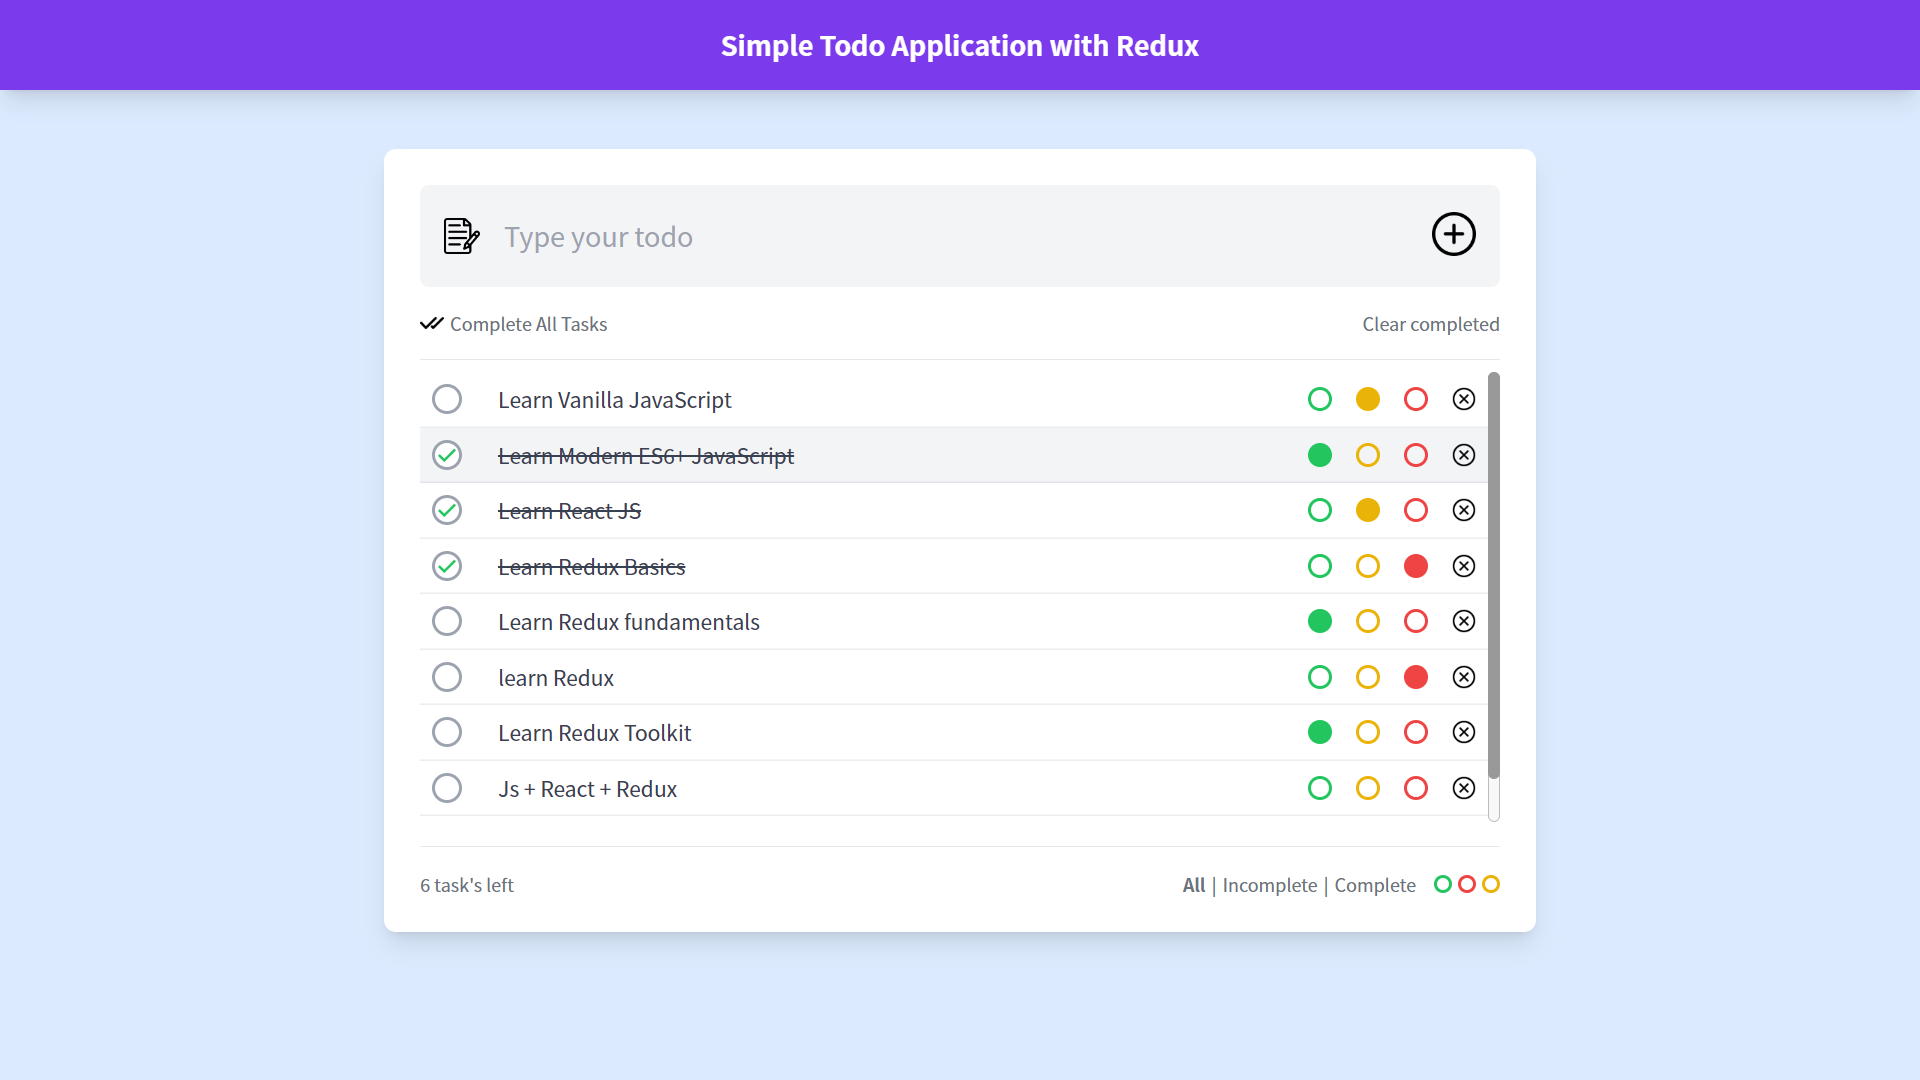
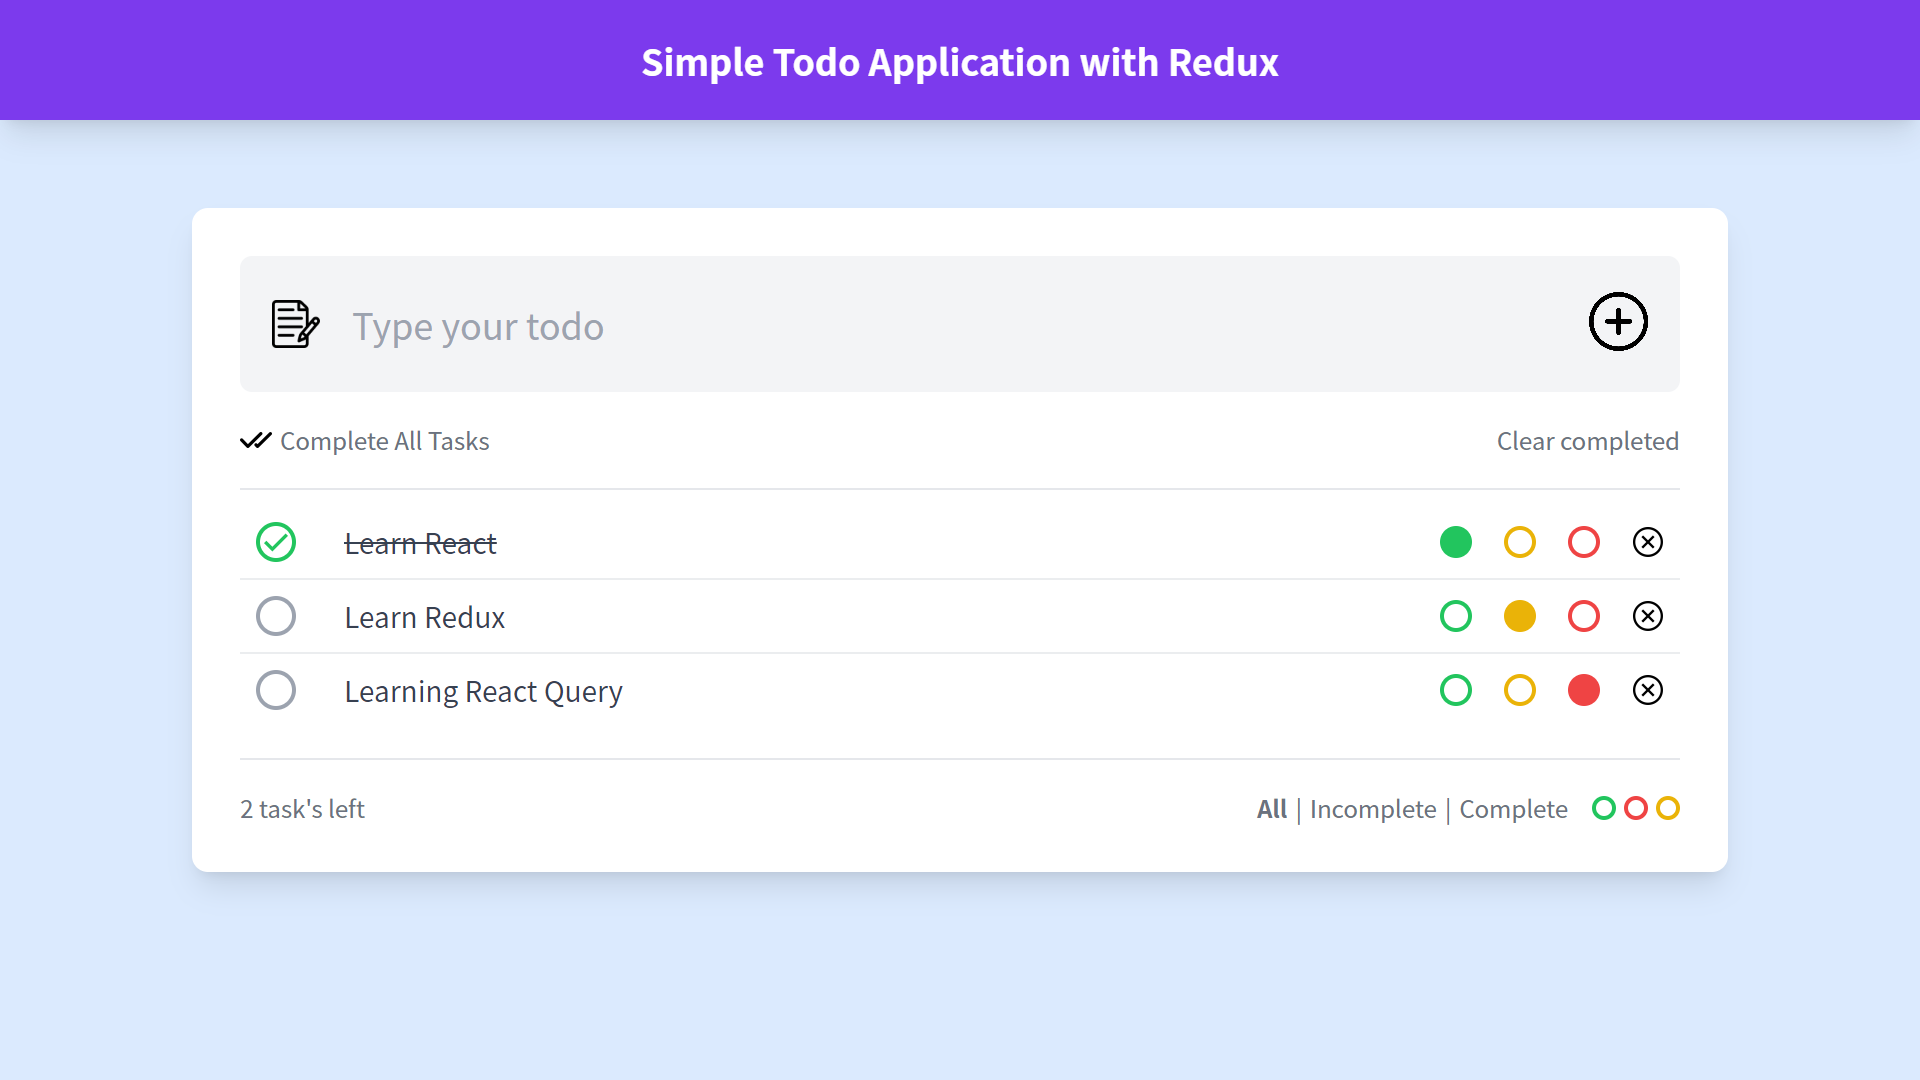
replace all ==> OK

Changed region(s): [[0.0, 0.0306, 1.0, 0.8861]]

diff --git a/src/redux/todos/actionCreator.js b/src/redux/todos/actionCreator.js
@@ -1,4 +1,4 @@
-import { ADDED, TOGGLED, DELETED, COLOR_SELECTED, ALL_COMPLETED, CLEAR_COMPLETED, LOADED } from './actionTypes';
+import { ADDED, TOGGLED, DELETED, COLOR_SELECTED, ALL_COMPLETED, CLEAR_COMPLETED } from './actionTypes';
 
 
 // 🟨🟨🟨🟨🟨🟨🟨🟨🟨🟨🟨🟨🟨🟨🟨🟨🟨🟨🟨🟨🟨🟨
@@ -7,22 +7,9 @@ import { ADDED, TOGGLED, DELETED, COLOR_SELECTED, ALL_COMPLETED, CLEAR_COMPLETED
 // 🟨🟨🟨🟨🟨🟨🟨🟨🟨🟨🟨🟨🟨🟨🟨🟨🟨🟨🟨🟨🟨🟨
 
 
-export const loadFromServer = todos => {
-
-    // thun function থেকে এই function call এর মাধ্যমে, parameter এর সাহায্যে... 
-    // এই payload property এর value টা আসবে...
-    // যা redux store এর reducer function এর কাছে পৌঁছাবে...
-    return {
-        type: LOADED,
-        payload: todos,
-    }
-}
-
-// 🟩🟩🟩🟩🟩🟩🟩🟩🟩🟩🟩🟩🟩🟩🟩🟩🟩🟩🟩🟩🟩🟩🟩
-
 export const addTodo = todoText => {
 
-    // thun function থেকে এই function call এর মাধ্যমে, parameter এর সাহায্যে... 
+    // UI থেকে এই function call এর মাধ্যমে, parameter এর সাহায্যে... 
     // এই payload property এর value টা আসবে...
     // যা redux store এর reducer function এর কাছে পৌঁছাবে...
     return {
@@ -35,7 +22,7 @@ export const addTodo = todoText => {
 
 export const toggle = todoId => {
 
-    // thun function থেকে এই function call এর মাধ্যমে, parameter এর সাহায্যে... 
+    // UI থেকে এই function call এর মাধ্যমে, parameter এর সাহায্যে... 
     // এই payload property এর value টা আসবে...
     // যা redux store এর reducer function এর কাছে পৌঁছাবে...
     return {
@@ -48,7 +35,7 @@ export const toggle = todoId => {
 
 export const deleteTodo = todoId => {
 
-    // thun function থেকে এই function call এর মাধ্যমে, parameter এর সাহায্যে... 
+    // UI থেকে এই function call এর মাধ্যমে, parameter এর সাহায্যে... 
     // এই payload property এর value টা আসবে...
     // যা redux store এর reducer function এর কাছে পৌঁছাবে...
     return {
@@ -77,7 +64,7 @@ export const clearComplete = _ => {
 
 export const colorSelected = (todoId, color) => {
 
-    // thun function থেকে এই function call এর মাধ্যমে, parameter এর সাহায্যে... 
+    // UI থেকে এই function call এর মাধ্যমে, parameter এর সাহায্যে... 
     // এই payload property এর value গুলা আসবে...
     // যা redux store এর reducer function এর কাছে পৌঁছাবে...
     return {

diff --git a/src/components/Todo.js b/src/components/Todo.js
@@ -1,7 +1,5 @@
+import { toggle, colorSelected, deleteTodo } from '../redux/todos/actionCreator';
 import { useDispatch } from 'react-redux';
-import thunkUpdateStats from '../redux/todos/thunk/thunkUpdateStats';
-import thunkUpdateColor from '../redux/todos/thunk/thunkUpdateColor';
-import thunkDeleteTodo from '../redux/todos/thunk/thunkDeleteTodo';
 import images from '../assets';
 
 
@@ -11,17 +9,16 @@ export default function Todo({ todo }) {
 
     const dispatch = useDispatch();
 
-    // data 1st send at server by REST API...
-    // after then write at redux store...
-    const handleStatusChange = todoId => dispatch(thunkUpdateStats(todoId, completed));
-    const handleColorChange = (todoId, color) => dispatch(thunkUpdateColor(todoId, color));
-    const handleDeleteTodo = todoId => dispatch(thunkDeleteTodo(todoId));
+    // data write at redux store...
+    const handleStatusChange = todoId => dispatch(toggle(todoId));
+    const handleColorChange = (todoId, color) => dispatch(colorSelected(todoId, color));
+    const handleDeleteTodo = todoId => dispatch(deleteTodo(todoId));
 
 
     return (
         <div className="flex justify-start items-center p-2 hover:bg-gray-100 hover:transition-all space-x-4 border-b border-gray-400/20 last:border-0">
 
-            <div className={`relative rounded-full bg-white border-2 border-gray-400 w-5 h-5 flex flex-shrink-0 justify-center items-center mr-2 ${completed && 'border-green-500 focus-within:border-green-500'}`}>
+            <div className={`rounded-full bg-white border-2 border-gray-400 w-5 h-5 flex flex-shrink-0 justify-center items-center mr-2 ${completed && 'border-green-500 focus-within:border-green-500'}`}>
 
                 <input
                     type="checkbox"
@@ -42,7 +39,7 @@ export default function Todo({ todo }) {
             </div>
 
             <div
-                className={`select-none flex-1 cursor-pointer ${completed && 'line-through'}`}
+                className={`select-none flex-1 cursor-pointer ${completed ? 'line-through' : ''}`}
                 onClick={() => handleStatusChange(id)}
             >
                 {text}

diff --git a/src/redux/todos/reducer.js b/src/redux/todos/reducer.js
@@ -1,7 +1,19 @@
-import { ADDED, TOGGLED, DELETED, COLOR_SELECTED, ALL_COMPLETED, CLEAR_COMPLETED, LOADED } from './actionTypes';
+import { ADDED, TOGGLED, DELETED, COLOR_SELECTED, ALL_COMPLETED, CLEAR_COMPLETED } from './actionTypes';
 
 
-export const initialState = []
+export const initialState = [
+    {
+        id: 1,
+        text: 'Learn React',
+        completed: true,
+    },
+    {
+        id: 2,
+        text: 'Learn Redux',
+        completed: false,
+        color: 'red',
+    },
+]
 
 
 // 🟨🟨🟨🟨🟨🟨🟨🟨🟨🟨🟨🟨🟨🟨🟨🟨🟨🟨
@@ -9,20 +21,10 @@ export const initialState = []
 // when user dispatch an action creators from UI
 // 🟨🟨🟨🟨🟨🟨🟨🟨🟨🟨🟨🟨🟨🟨🟨🟨🟨🟨
 
-const nextTodoId = (todos) => {
-    const maxId = todos.reduce((maxId, todo) => Math.max(todo.id, maxId), -1);
-    return maxId + 1;
-};
 
 const reducer = (state = initialState, { type, payload }) => {
 
     switch (type) {
-
-        // 🟩🟩🟩🟩🟩🟩🟩🟩🟩🟩🟩🟩🟩🟩🟩🟩🟩🟩🟩🟩🟩🟩🟩
-
-        case LOADED:
-
-            return payload;
 
         // 🟩🟩🟩🟩🟩🟩🟩🟩🟩🟩🟩🟩🟩🟩🟩🟩🟩🟩🟩🟩🟩🟩🟩
 
@@ -31,7 +33,7 @@ const reducer = (state = initialState, { type, payload }) => {
             return [
                 ...state,
                 {
-                    id: nextTodoId(state),
+                    id: state.length + 1,
                     text: payload,
                     completed: false,
                 },

diff --git a/src/components/TodoList.js b/src/components/TodoList.js
@@ -1,7 +1,5 @@
-import { useEffect } from 'react';
-import { useSelector, useDispatch } from 'react-redux';
+import { useSelector } from 'react-redux';
 import Todo from "./Todo";
-import thunkFetchAllTodo from '../redux/todos/thunk/thunkFetchAllTodo';
 
 
 export default function TodoList() {
@@ -11,20 +9,9 @@ export default function TodoList() {
     const filterTask = useSelector(state => state.filter);
     const { status, colors } = filterTask;
 
-    const dispatch = useDispatch();
-
-    // calling Thunk function for async tasks for data fetching from server...
-    useEffect(() => {
-        dispatch(thunkFetchAllTodo);
-        // redux think, this is an action dispatch...
-        // but inside it, we pass full thank fetchTodos function body
-        // & thankMiddleware pass dispatch + getState function as parameter inside it...
-    }, [dispatch]);
-
 
     const filterByStatus = todo => {
-        // 2 Redux Store State are interacting here... by these condition...
-
+        // 2 Redux Store State are interacting here... 
         switch (status) {
             case 'Complete':
                 return todo.completed;
@@ -47,7 +34,7 @@ export default function TodoList() {
 
 
     return (
-        <div className="customScroll mt-2 text-gray-700 text-sm max-h-[300px] overflow-y-auto">
+        <div className="mt-2 text-gray-700 text-sm max-h-[300px] overflow-y-auto">
             {
                 todos.length
                     ? todos

diff --git a/src/redux/store.js b/src/redux/store.js
@@ -1,15 +1,9 @@
-import { applyMiddleware, legacy_createStore as createStore } from "redux";
 import { composeWithDevTools } from "redux-devtools-extension";
+import { legacy_createStore as createStore } from "redux";
 import rootReducer from './rootReducer';
-import thunkMiddleware from "redux-thunk";
 
 
-const store = createStore(rootReducer, composeWithDevTools(applyMiddleware(thunkMiddleware)));
+const store = createStore(rootReducer, composeWithDevTools());
 
-// thunkMiddleware ==> যখনি কোন thank function পাবে,
-// তখন ওই thank function এর ভিতরে থাকা action dispatch কে আটকে দিবে, 
-// async কাজ করে বা server থেকে data নিয়ে এনে...
-// তারপর action dispatch এ data ঢুকিয়ে, 
-// action dispatch function কে call করে দিবে।
 
 export default store;

diff --git a/src/components/Header.js b/src/components/Header.js
@@ -1,8 +1,7 @@
-import { allComplete, clearComplete } from "../redux/todos/actionCreator";
+import { addTodo, allComplete, clearComplete } from "../redux/todos/actionCreator";
 import { useDispatch } from 'react-redux';
 import { useState } from "react";
 import images from './../assets';
-import thunkAddTodo from "../redux/todos/thunk/thunkAddTodo";
 
 
 export default function Header() {
@@ -21,7 +20,7 @@ export default function Header() {
         if (taskInput === undefined || taskInput.trim() === '') {
             alert('Please enter todo context...')
         } else {
-            dispatch(thunkAddTodo(taskInput));
+            dispatch(addTodo(taskInput));
             setTaskInput('')
         }
     }

diff --git a/public/index.html b/public/index.html
@@ -22,28 +22,6 @@
         };
     </script>
 
-
-    <style>
-        .customScroll::-webkit-scrollbar {
-            width: 8px;
-        }
-
-        .customScroll::-webkit-scrollbar-thumb {
-            border-radius: 5px;
-            background-color: #999;
-        }
-
-        .customScroll::-webkit-scrollbar-thumb:hover {
-            background-color: #555;
-        }
-
-        .customScroll::-webkit-scrollbar-track {
-            border-radius: 5px;
-            border: 1px solid #bbb;
-            background-color: #f8f8f8;
-        }
-    </style>
-    
     <title>Todo App</title>
 </head>
 

diff --git a/src/redux/todos/actionTypes.js b/src/redux/todos/actionTypes.js
@@ -5,7 +5,6 @@
 // 🟨🟨🟨🟨🟨🟨🟨🟨🟨🟨🟨🟨🟨🟨🟨🟨🟨🟨🟨🟨
 
 
-export const LOADED = 'todo/loaded';
 export const ADDED = 'todo/added';
 export const TOGGLED = 'todo/toggled';
 export const DELETED = 'todo/deleted';

diff --git a/README.md b/README.md
@@ -1,10 +1,9 @@
-> 28 - Aug - 2022 | Module 3
+> 21 - Aug - 2022 | Module 3
 
-# Todo with React, Redux - Async - Server - REST API 
+# Todo with React, Redux
 
 * yarn add react-redux
 * yarn add redux-devtools-extension
-* yarn add redux-thunk
 
 ## Redux Data Flow
 
@@ -21,8 +20,7 @@
 | 1| onClick / onChange                 | tag attribute's use for users event listener       |
 | 2| handlerFunction **(data/value)**   | custom function call inside attributes from UI     |
 | 3| dispatch = `useDispatch()`         | **react-redux** lib for calling Reducer inside Redux Store  |
-| 4| `dispatch(thunkFunctionBodyPass)`  | `async` task execution, Like API calling for fetching data  |
-| 5| actionCreator( ) <br/> 4.1 - `actionType` <br/> 4.2 - payload : **data/value**   | Pass `actionType` + data/value for Reducer to manipulate Redux Store    |
+| 4| actionCreator( ) <br/> 4.1 - `actionType` <br/> 4.2 - payload : **data/value**   | Pass `actionType` + data/value for Reducer to manipulate Redux Store    |
 
 <br/>
 
